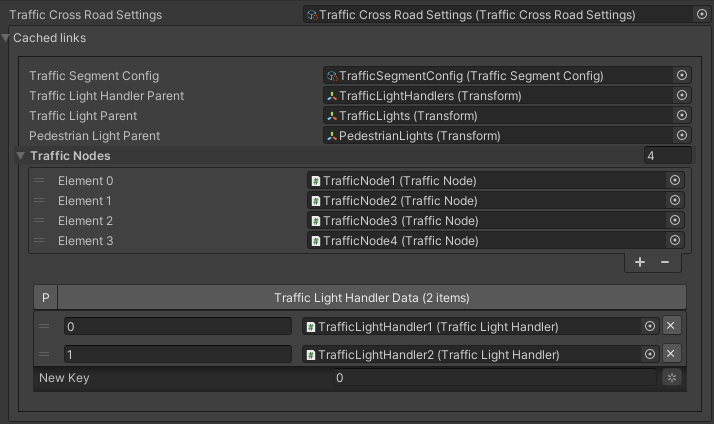
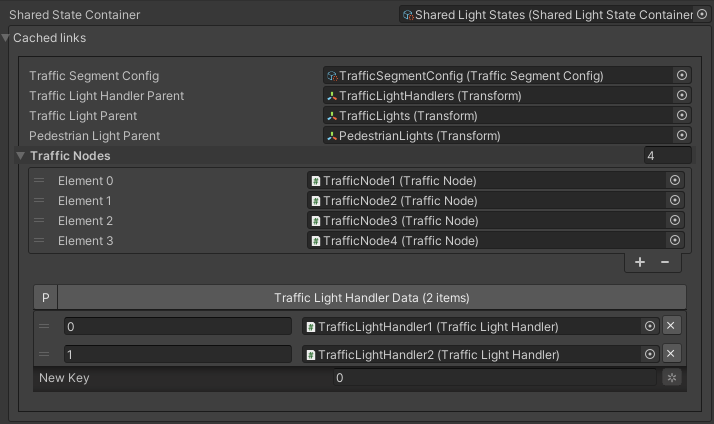
up

Changed region(s): [[0.4314, 0.0, 0.986, 0.0613], [0.0, 0.0, 0.2465, 0.0613]]

diff --git a/docs/source/trafficLight.rst b/docs/source/trafficLight.rst
@@ -57,6 +57,14 @@ Global Lights Settings
 
 Window for quick display of crossroad timings and for connecting the traffic lights to different entities.
 
+How To Open
+~~~~~~~~~~~~
+
+Read more :ref:`here <trafficLightGlobalLightHowToUse>`.
+
+Settings
+~~~~~~~~~~~~
+
 	.. image:: /images/road/trafficLight/GlobalLightSettings.png
 
 .. _trafficLightGlobalLightCommonSettings:
@@ -127,6 +135,54 @@ Unselect:
 
 	.. image:: /images/road/trafficLight/GlobalLightAllConnections.png
 	`All connection types and -1` :ref:`light index <trafficLightIndex>` `are enabled example.`
+
+.. _sharedLightStateReplace:
+
+How To Replace Global Light States
+~~~~~~~~~~~~
+
+#. Open :ref:`Global Light Settings <trafficLightGlobalLight>`.
+#. Click the `*` button to expand the `Replace settings`.
+
+	.. image:: /images/road/trafficLight/replaceShared0.png
+	
+#. Select the source :ref:`state container <sharedLightStates>` you want to replace.
+
+
+	.. image:: /images/road/trafficLight/replaceShared1.png
+	
+#. Select your new desided :ref:`state container <sharedLightStates>`.
+	
+	.. image:: /images/road/trafficLight/replaceShared2.png
+	
+#. Click `Replace` button.
+#. As a result, all the source :ref:`state container <sharedLightStates>` are replaced.
+
+	.. image:: /images/road/trafficLight/replaceShared3.png
+
+.. _sharedLightStates:
+
+Shared Light State Container
+------------
+
+Contains common timings of :ref:`light states <trafficLightState>` that are shared between :ref:`traffic light crossroads <trafficLightCrossroad>`. You can easily replace shared containers by :ref:`Global Light Settings <trafficLightGlobalLight>`.
+
+How To Create
+~~~~~~~~~~~~
+
+	.. image:: /images/road/trafficLight/sharedLightStatesPath.png
+	
+Default Container Path
+~~~~~~~~~~~~
+
+	.. image:: /images/road/trafficLight/sharedLightStatesProjectPath.png
+	`Project path example.`
+	
+Settings
+~~~~~~~~~~~~
+
+	.. image:: /images/road/trafficLight/sharedLightStates.png
+	`Example.`
 
 .. _trafficLightState:
 

diff --git a/docs/source/roadSegment.rst b/docs/source/roadSegment.rst
@@ -55,18 +55,19 @@ Cached
 
 	.. image:: /images/road/roadSegment/TrafficLightCrossroadCached.png
 	
-| **Traffic crossroad settings** : settings that contain general traffic light timings.
+| **Shared state container** : :ref:`shared light state container <sharedLightStates>`, that contain common traffic light timings that are shared with other light crossroads.
 | **Traffic nodes** : all :ref:`Traffic Nodes <trafficNode>` of `RoadSegment`.
 | **Traffic light handler data** : light index and light handlers that are linked to the `TrafficLightCrossroad`.
 
 Timeline common
 """"""""""""""
 	
-Timeline common uses the timeline from the `TrafficCrossroadSettings`.
+Timeline common uses the timeline from the :ref:`Shared state container <sharedLightStates>`.
 	
 	.. image:: /images/road/roadSegment/TrafficLightCrossroadLightTimeline.png
 	
-	.. note:: You can change the common timeline for the current segment by adding new settings `TrafficCrossroadSettings`.
+	.. note::
+		You can easily replace the `shared state container <sharedLightStates>` for all crossroads using the :ref:`Global Light Settings <trafficLightGlobalLight>` tool.
 
 Timeline custom
 """"""""""""""
@@ -79,7 +80,7 @@ Timeline custom
 	#. Enable `custom settings`.
 	#. Select desired :ref:`TrafficLightHandler <trafficLightHandler>`.
 	#. Press `+` button.
-	#. Select desired :ref:`state <trafficLightState>`.
+	#. Add desired :ref:`states <trafficLightState>`.
 	#. Enter duration of the :ref:`state <trafficLightState>`.
 		
 	.. image:: /images/road/roadSegment/TrafficLightCrossroadCustomTimeline.png

diff --git a/docs/source/roadInstallation.rst b/docs/source/roadInstallation.rst
@@ -6,8 +6,8 @@ Installation
 Traffic Road Installation
 ----------------
 
-#. Initialize :ref:`scene <sceneInitialization>`.
-#. Create :ref:`RoadSegments <roadSegment>`. And add them to the :ref:`RoadParent <roadParent>` as children.
+#. Create initial :ref:`scene <cityCreation>` objects.
+#. Create required :ref:`RoadSegments <roadSegment>`. And add them to the :ref:`RoadParent <roadParent>` as children.
 #. Create the :ref:`necessary paths <trafficNodePathCreator>`. 
 #. Configure :ref:`paths <path>`. 
 #. Create required :ref:`PedestrianNode <pedestrianNode>` by :ref:`PedestrianNodeCreator <pedestrianNodeCreator>`.
